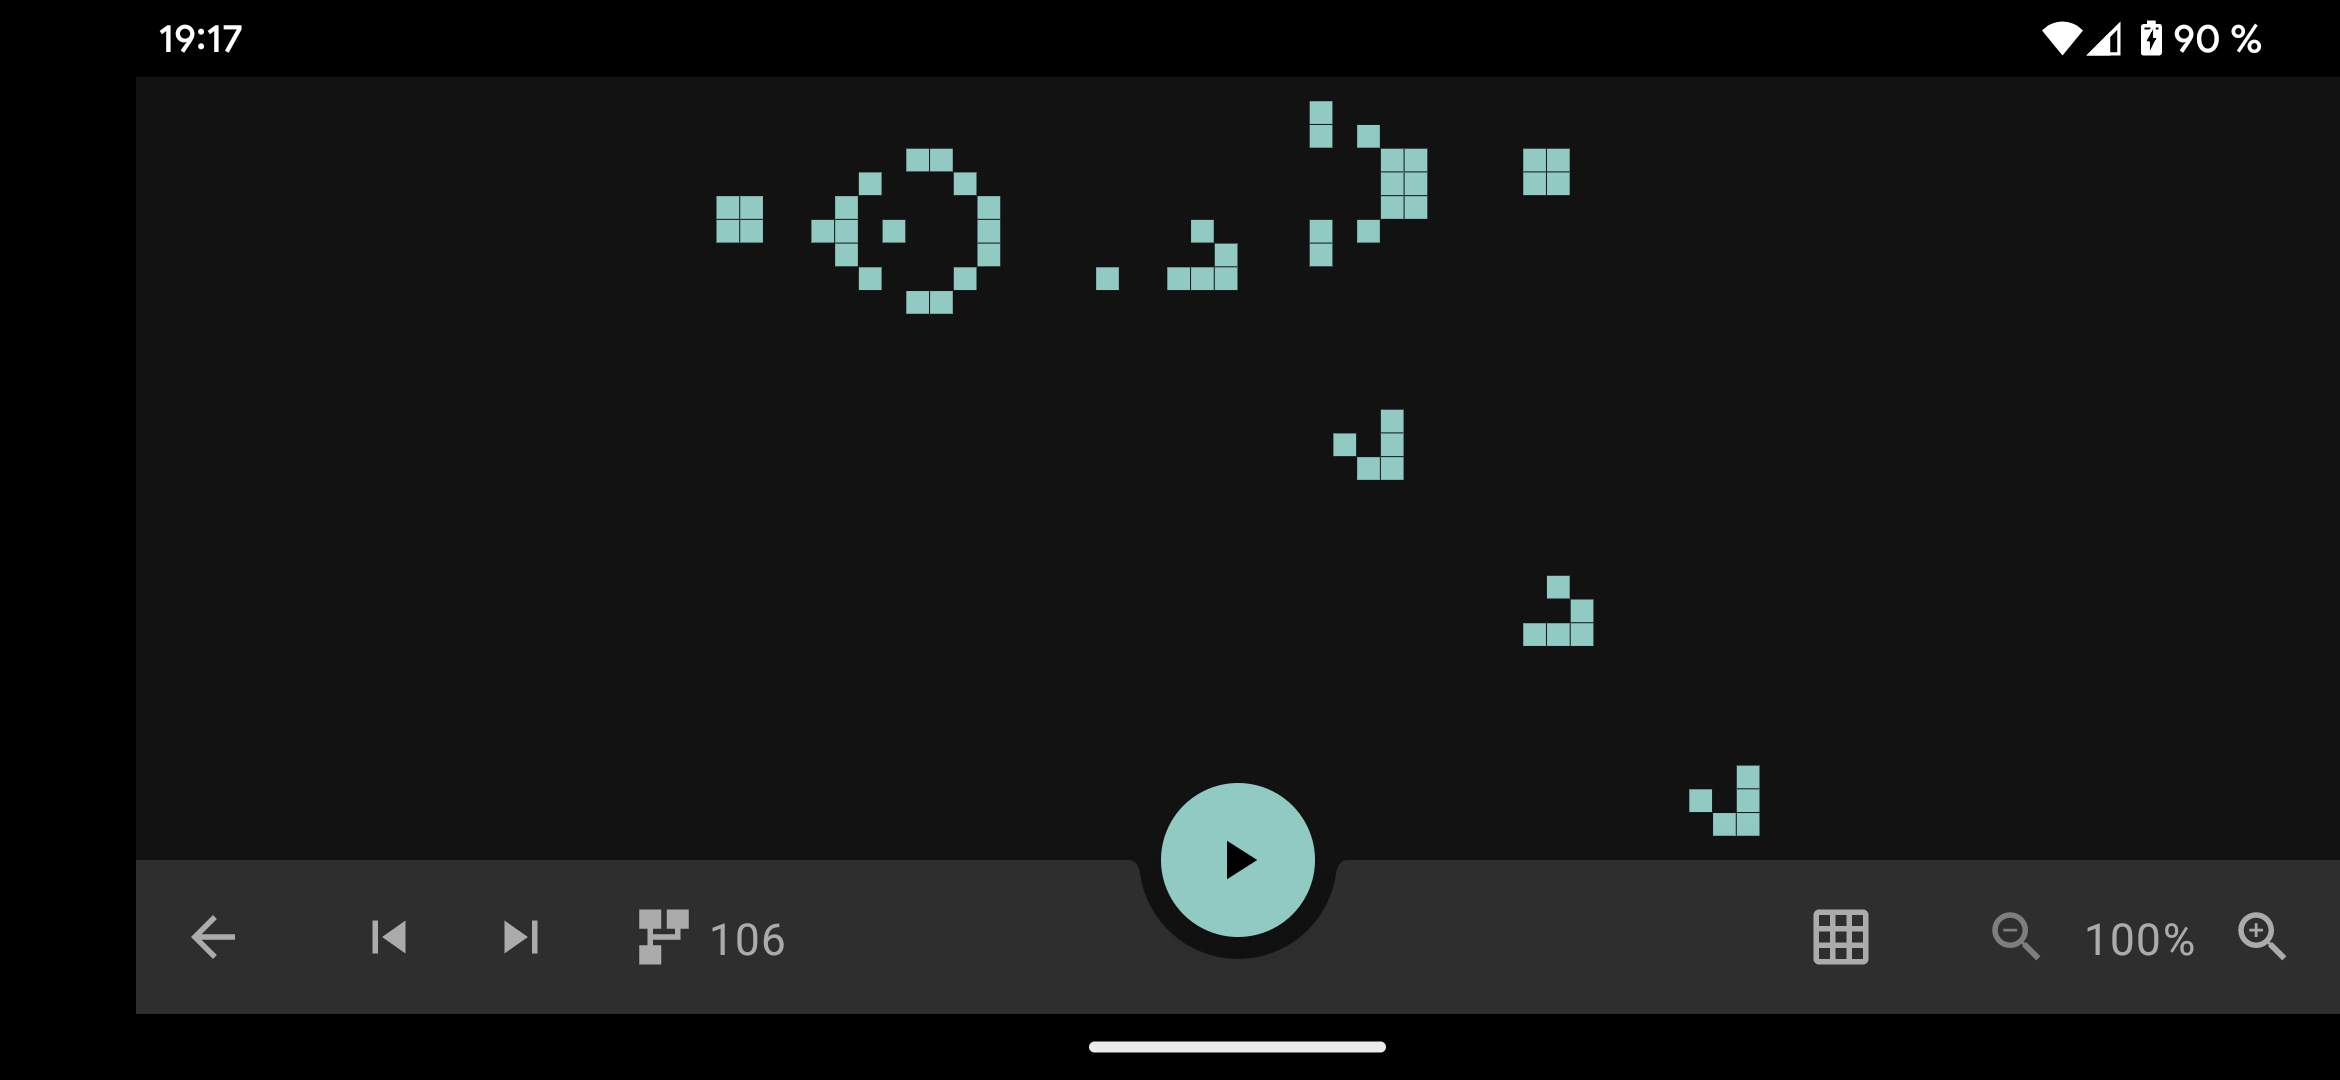
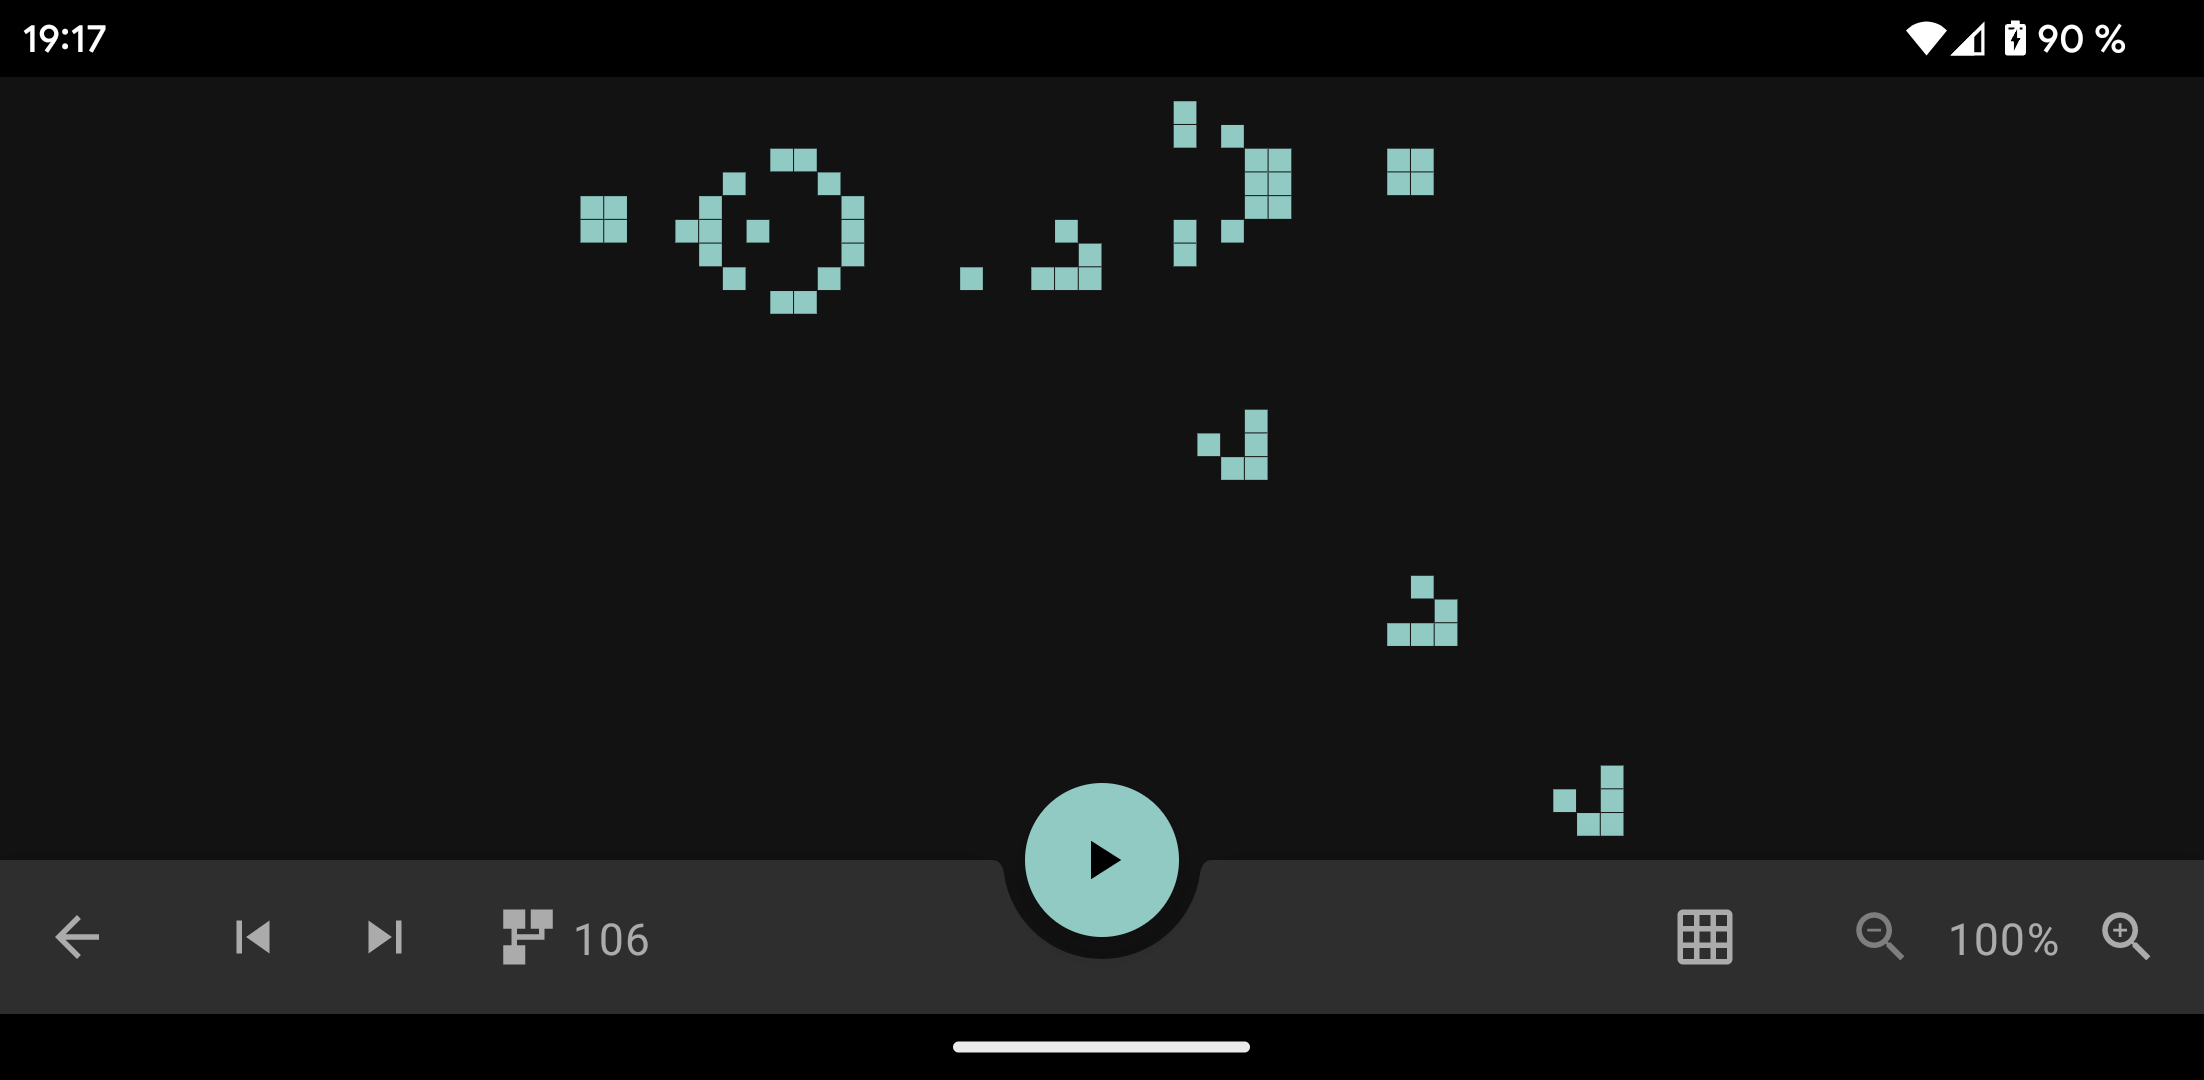
Add screenshot for desktop

diff --git a/README.md b/README.md
@@ -12,6 +12,7 @@ The UI for iPhone is written using SwiftUI.
 
 ## Screenshots
 
+### Android
 <p align="middle">
     <img src="img/screenshot_android_1.png" alt="Android screenshot 1" width="30%" />
     <img src="img/screenshot_android_2.png" alt="Android screenshot 2" width="30%" /> 
@@ -22,6 +23,12 @@ The UI for iPhone is written using SwiftUI.
     <img src="img/screenshot_android_4.png" alt="Android screenshot 4" width="100%" /> 
 </p>
 
+### Desktop
+<p align="middle">
+    <img src="img/screenshot_desktop.png" alt="Desktop screenshot" width="100%" /> 
+</p>
+
+### iPhone
 <p align="middle">
     <img src="img/screenshot_iphone_1.png" alt="iPhone screenshot 1" width="30%" />
     <img src="img/screenshot_iphone_2.png" alt="iPhone screenshot 2" width="30%" /> 
